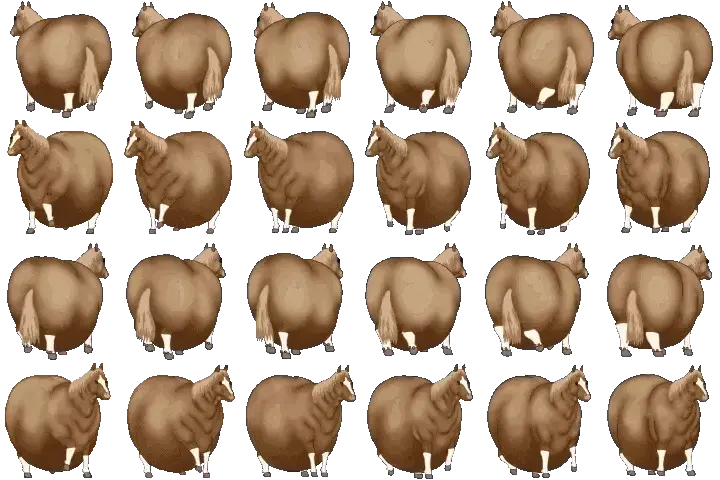
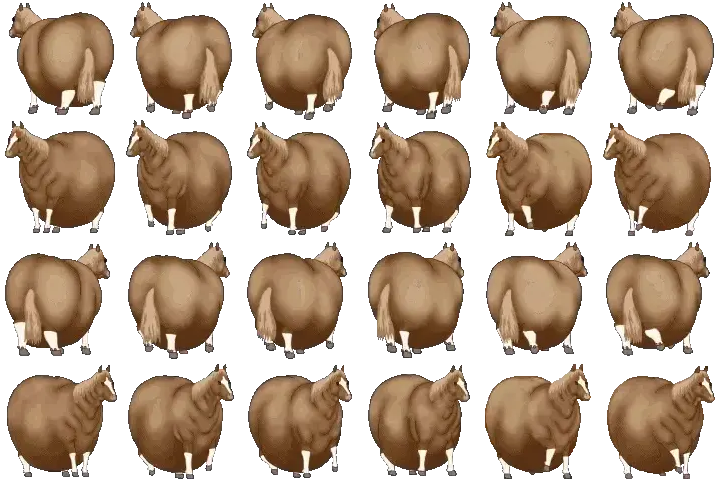
feat: add stay state

diff --git a/script.js b/script.js
@@ -1,5 +1,8 @@
-const Size = 300, Speed = 300, MaxOffset = 10, FrameCount = 6, DirectionCount = 4, AnimationFPS = 32;
-let x = 0, y = 0, dir = 0, frame = 0, prevTime = 0, needFrameUpdate = true, needColorUpdate = true;
+const Size = 300, Speed = 300, MaxOffset = 10, MinDelay = 1000, MaxDelay = 10000, FrameCount = 6, DirectionCount = 4, AnimationFPS = 32;
+let x = 0, y = 0, dir = 0,
+    frame = 0, prevTime = 0,
+    isStay = true, delay = 0,
+    needFrameUpdate = true, needColorUpdate = true;
 
 window.onload = init;
 
@@ -14,7 +17,13 @@ function init() {
   dir = rand() * DirectionCount | 0;
 
   setInterval(updateFrame, 1000 / AnimationFPS);
+  updateStay();
   requestAnimationFrame(update);
+}
+
+function updateStay() {
+  isStay = !isStay;
+  setTimeout(updateStay, MinDelay + rand() * (MaxDelay - MinDelay));
 }
 
 function updateFrame() {
@@ -51,8 +60,10 @@ function update(time) {
     needColorUpdate = true;
   }
 
-  x = newX;
-  y = newY;
+  if (!isStay) {
+    x = newX;
+    y = newY;
+  }
 
   render();
 }
@@ -66,7 +77,9 @@ function render() {
   }
 
   if (needFrameUpdate) {
-    horse.style.backgroundPosition = `${-frame}em ${-dir}em`;
+    const dx = isStay ? 0 : frame;
+    const dy = isStay ? dir | 1 : dir;
+    horse.style.backgroundPosition = `${-dx}em ${-dy}em`;
     needFrameUpdate = false;
   }
 }
